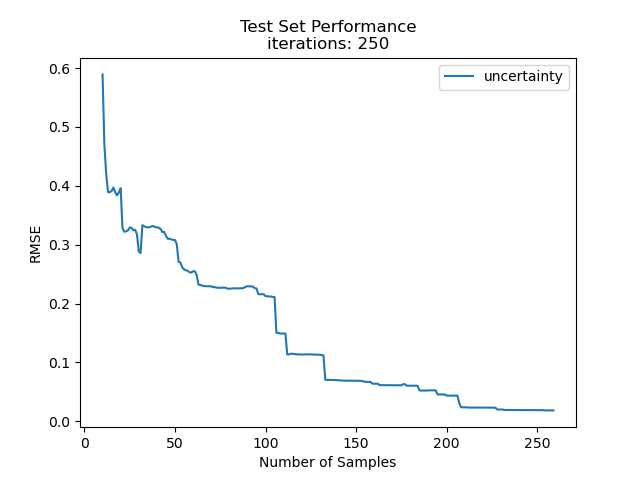
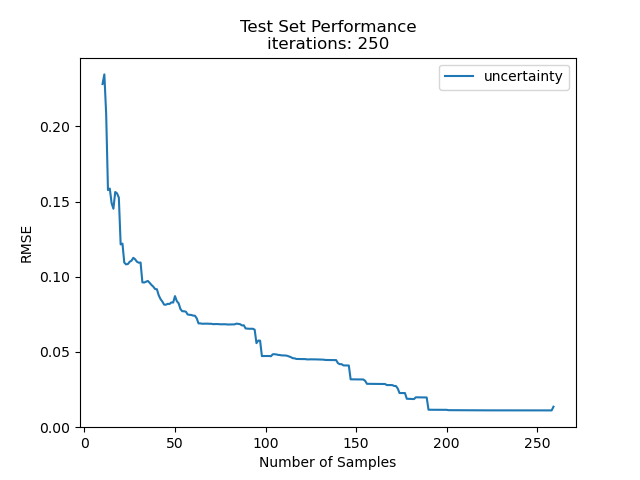
Added data scaling / normalization to the ActiveLearner

diff --git a/active_learning.py b/active_learning.py
@@ -5,8 +5,8 @@ from copy import copy, deepcopy
 from time import time as now
 
 import numpy as np
+from sklearn.preprocessing import StandardScaler
 from .error_metrics import get_error
-
 from .sampling_strategies import QueryStrategy
 
 
@@ -29,6 +29,7 @@ class ActiveLearner:
         query_strategy,
         probe_function,
         batch_size,
+        scaler=StandardScaler(),
         random_state=None,
         model_kwargs={},
     ):
@@ -42,6 +43,7 @@ class ActiveLearner:
             query_strategy (QueryStrategy): A QueryStrategy subclass used for querying new points in the pool.
             probe_function (function): This function takes X as input and outputs associated y values. Required if y_pool is not given in Xy_pool.
             batch_size (int): The number of points to sample in each active learning iteration
+            scaler (obj, optional): Scaler / normalizer to update when more data has been added to the training set. Must have, fit(), transform(), and inverse_transform() methods
             random_state (int, optional): Random state. Defaults to None.
             model_kwargs (dict, optional): additional kwargs that are used in model.predict(). For example, the sklearn GPR class would have model_kwargs={"return_std": True}. Defaults to {}.
         """
@@ -52,6 +54,9 @@ class ActiveLearner:
         self.model_kwargs = model_kwargs
         self.query_strategy = query_strategy
         self.probe_function = probe_function
+        self.scaler = scaler
+        self.X_scaler = copy(self.scaler)
+        self.y_scaler = copy(self.scaler)
 
         self.batch_size = batch_size
 
@@ -60,6 +65,9 @@ class ActiveLearner:
 
         self.X_train = np.copy(Xy_init[0])
         self.y_train = np.copy(Xy_init[1])
+
+        self.X_scaler = self.X_scaler.fit(self.X_train)
+        self.y_scaler = self.y_scaler.fit(self.y_train)
 
         self.do_test = False
         self.X_test = None
@@ -76,6 +84,7 @@ class ActiveLearner:
         self.save_states = {
             "n_iter": 0,
             "models": [],
+            "scalers": [],
             "err_train": [],
             "err_test": [],
             "n_selected": [],
@@ -90,7 +99,10 @@ class ActiveLearner:
     def train_model(self):
         """train model with the model's fit() function"""
 
-        self.model.fit(self.X_train, self.y_train)
+        self.model.fit(
+            self.X_scaler.transform(self.X_train),
+            self.y_scaler.transform(self.y_train),
+        )
 
     def evaluate_model(
         self,
@@ -113,7 +125,12 @@ class ActiveLearner:
             (tuple): Return value is either (y_pred, y_uncertainty, error) or error. The former is true if return_pred_uncert is true. Otherwise the later is true.
         """
 
-        y_pred, y_uncert = self.model.predict(X, **self.model_kwargs)
+        y_pred, y_uncert = self.model.predict(self.X_scaler.transform(X), **self.model_kwargs)
+        if len(y_pred.shape) == 1:
+            y_pred = y_pred.reshape(-1, 1)
+            y_uncert = y_uncert.reshape(-1, 1)
+        y_pred = self.y_scaler.inverse_transform(y_pred).flatten()
+        y_uncert = self.y_scaler.inverse_transform(y_uncert).flatten()
 
         error = (
             get_error(y, y_pred, metric=error_metric, axis=error_axis)
@@ -136,7 +153,7 @@ class ActiveLearner:
         save_path=None,
     ):
         """The main active learning loop. Once the loop as started, in each iteration the following take place:
-        1) training datasets are updated,
+        1) training datasets are updated, incuding scalers
         2) the model is trained,
         3) the model is evaluated on train, test, and pool,
         4) the performance on pool is used to new points to add to the training datasets.
@@ -248,7 +265,9 @@ class ActiveLearner:
 
         # evaluate model on pool (this must be done on what remains of the pool)
         _, y_uncert, _ = self.evaluate_model(
-            self.X_pool[self.inds_pool], return_pred_uncert=True, error_metric="RMSE"
+            self.X_pool[self.inds_pool],
+            return_pred_uncert=True,
+            error_metric="RMSE",
         )
 
         # query
@@ -260,9 +279,10 @@ class ActiveLearner:
 
         # save all things that should be saved
         self.save_states["n_iter"] = self.save_states["n_iter"] + 1
-        self.save_states["model"].append(
+        self.save_states["models"].append(
             deepcopy(self.model)
         )  # this could be memory intensive for large models with many sampling iterations
+        self.save_states["scalers"].append((copy(self.X_scaler), copy(self.y_scaler)))
         self.save_states["err_train"].append(err_train)
         self.save_states["err_test"].append(err_test)
         self.save_states["n_selected"].append(len(self.inds_selected))
@@ -343,6 +363,10 @@ class ActiveLearner:
         # update train arrays
         self.X_train = np.concatenate((self.X_train, new_X), axis=0)
         self.y_train = np.concatenate((self.y_train, new_y), axis=0)
+
+        # update scalers
+        self.X_scaler = self.X_scaler.fit(self.X_train)
+        self.y_scaler = self.y_scaler.fit(self.y_train)
 
         # update inds arrays
         self.inds_selected.extend(self.inds_queried)

diff --git a/toy_example/example_al.py b/toy_example/example_al.py
@@ -1,8 +1,6 @@
 # %%
 
 import os
-import sys
-sys.path.append('..')
 
 import pickle
 import numpy as np
@@ -13,8 +11,8 @@ from sklearn.model_selection import train_test_split
 from sklearn.gaussian_process import GaussianProcessRegressor as GPR
 from sklearn.gaussian_process.kernels import Matern
 
-from active_learning import ActiveLearner
-from sampling_strategies import QueryUncertainty
+from BatchActiveLearning.active_learning import ActiveLearner
+from BatchActiveLearning.sampling_strategies import QueryUncertainty
 
 import matplotlib.pyplot as plt
 from matplotlib.animation import FuncAnimation
@@ -97,10 +95,9 @@ plt.ylabel("X density")
 X_scaler = StandardScaler().fit(X)
 y_scaler = StandardScaler().fit(y)
 
-X = X_scaler.transform(X)
-y = y_scaler.transform(y)
-
-X_train, X_test, y_train, y_test = train_test_split(X, y, test_size=0.33)
+X_train, X_test, y_train, y_test = train_test_split(
+    X_scaler.transform(X), y_scaler.transform(y), test_size=0.33
+)
 
 kernel = Matern()
 model = GPR(kernel=kernel, n_restarts_optimizer=10)
@@ -164,7 +161,6 @@ y_test = y[test_inds]
 
 n_iter = 250
 
-
 # define the probe function, f(X) --> y
 def probe_X(X):
     X = np.reshape(X, (-1, X.shape[-1]))
@@ -194,6 +190,7 @@ active_learner = ActiveLearner(
     model_kwargs={"return_std": True},
     query_strategy=query_strategy,
     probe_function=probe_X,
+    scaler=StandardScaler(),
     batch_size=1,  # setting batch size to 1 to show traditional AL sampling
     random_state=42,
 )
@@ -253,28 +250,27 @@ print(len(results["models"]))
 model_full_predictions = []
 points_sampled_full = results["inds_queried"]
 
-for model in results["models"]:
-    model_full_predictions.append(model.predict(X_scaler.transform(X_full)))
+for model, (X_scaler, y_scaler) in zip(results["models"], results["scalers"]):
+    model_full_predictions.append(
+        y_scaler.inverse_transform(model.predict(X_scaler.transform(X_full)).reshape(-1, 1))
+    )
 
 model_full_predictions = np.array(model_full_predictions)
 print(model_full_predictions.shape)
 
 # %%
 
+
 def animate(frame):
-    y_full_pred = y_scaler.inverse_transform(
-        model_full_predictions[frame].reshape(-1, 1)
-    )
+    y_full_pred = model_full_predictions[frame].reshape(-1, 1)
 
     plt.clf()
     plt.plot(X_full, y_full, "k-", label="True", zorder=0)
     plt.plot(X_full, y_full_pred, "b-", label="Pred", zorder=1)
     plt.scatter(
-        X_scaler.inverse_transform(
-            X_pool[points_sampled_full[: frame + 1]].reshape(-1, 1)
-        ),
+        X_pool[points_sampled_full[: frame + 1]],
         [-0.2] * (frame + 1),
-        c='tab:orange',
+        c="tab:orange",
         alpha=0.2,
         edgecolor="none",
         label="Sampled X",
@@ -282,7 +278,7 @@ def animate(frame):
     plt.scatter(
         X_scaler.inverse_transform(X_init.reshape(-1, 1)),
         [-0.2] * len(X_init),
-        c='tab:blue',
+        c="tab:blue",
         edgecolor="none",
         label="Initial X",
     )
@@ -292,9 +288,10 @@ def animate(frame):
     plt.ylim(-0.3, 2.1)
     plt.legend()
 
-    plt.text(0.1, -0.1, f'{frame + 1} points sampled', fontsize=10)
+    plt.text(0.1, -0.1, f"{frame + 1} points sampled", fontsize=10)
 
     return plt
+
 
 # Create the animation
 anim = FuncAnimation(
